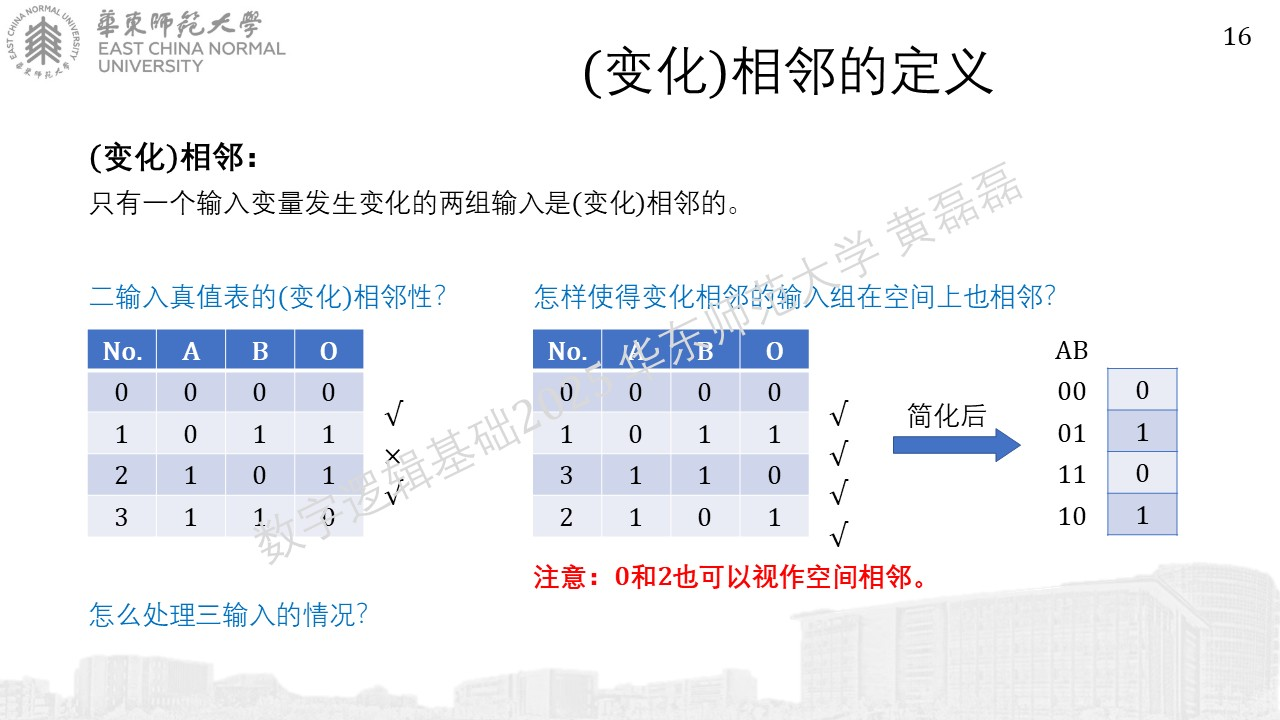
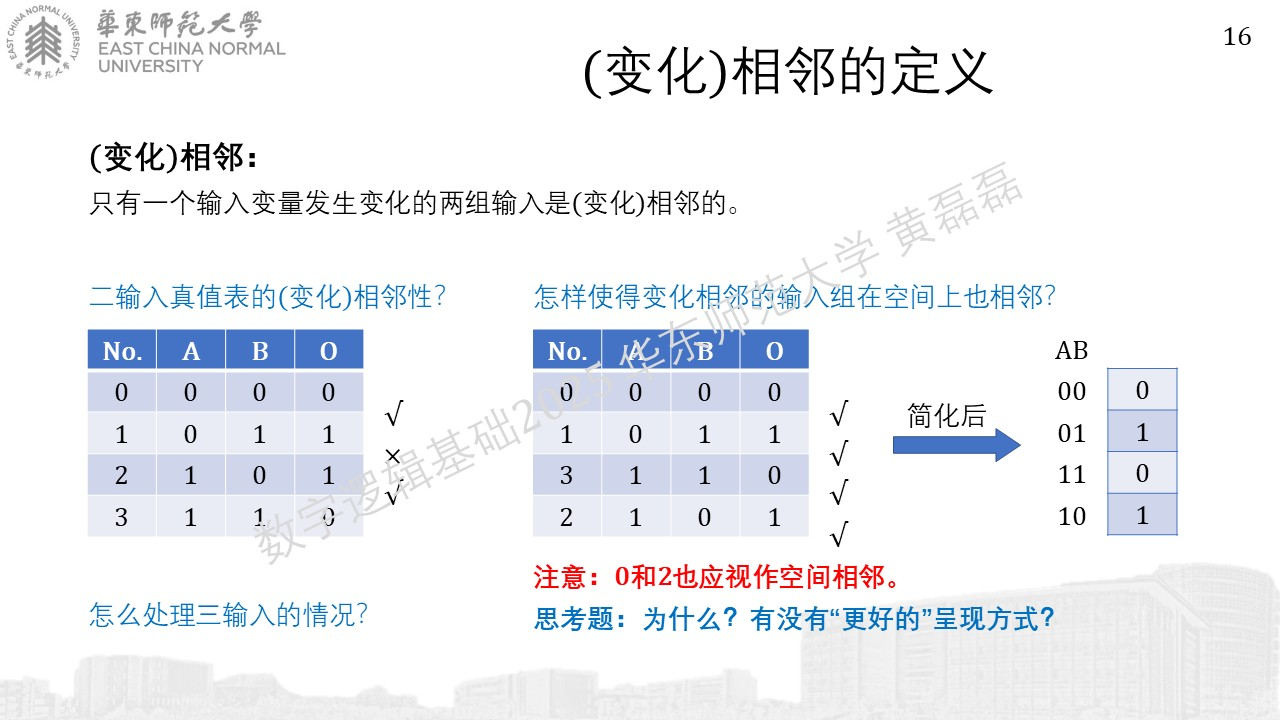
modification toward 3rd lecture

Changed region(s): [[0.4062, 0.7639, 0.8438, 0.8861]]

diff --git a/source/数字逻辑基础 - 第03讲 - 逻辑代数 - 标准表达形式/index.rst b/source/数字逻辑基础 - 第03讲 - 逻辑代数 - 标准表达形式/index.rst
@@ -22,8 +22,22 @@
 .. image:: 幻灯片6.JPG
 .. image:: 幻灯片7.JPG
 .. image:: 幻灯片8.JPG
+
+previous version
+
+.. image:: 幻灯片9_old.JPG
+
+current version
+
 .. image:: 幻灯片9.JPG
 .. image:: 幻灯片10.JPG
+
+previous version
+
+.. image:: 幻灯片11_old.JPG
+
+current version
+
 .. image:: 幻灯片11.JPG
 .. image:: 幻灯片12.JPG
 .. image:: 幻灯片13.JPG
@@ -32,11 +46,32 @@
 卡诺图
 ........................................
 .. image:: 幻灯片15.JPG
+
+previous version
+
+.. image:: 幻灯片16_old.JPG
+
+current version
+
 .. image:: 幻灯片16.JPG
+
+previous version
+
+.. image:: 幻灯片17_old.JPG
+
+current version
+
 .. image:: 幻灯片17.JPG
 .. image:: 幻灯片18.JPG
 .. image:: 幻灯片19.JPG
 .. image:: 幻灯片20.JPG
 .. image:: 幻灯片21.JPG
+
+previous version
+
+.. image:: 幻灯片22_old.JPG
+
+current version
+
 .. image:: 幻灯片22.JPG
 .. image:: 幻灯片23.JPG
